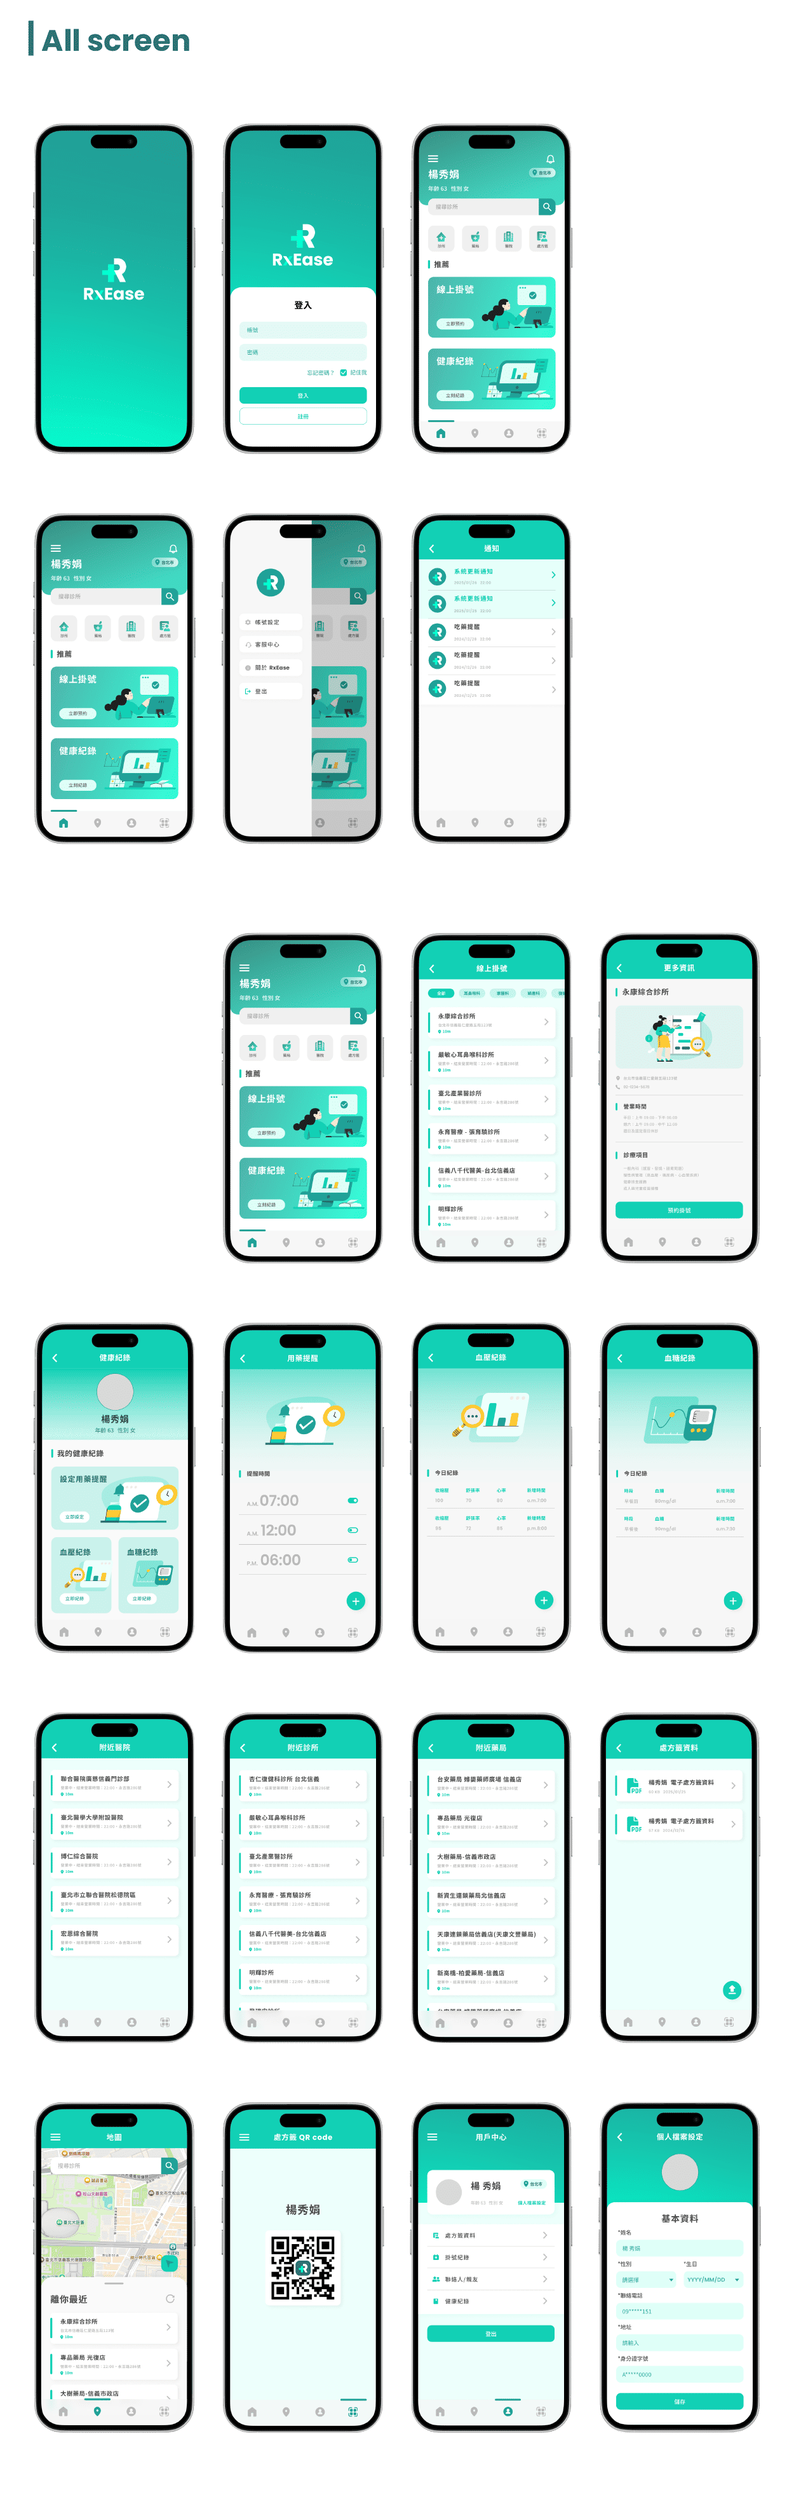
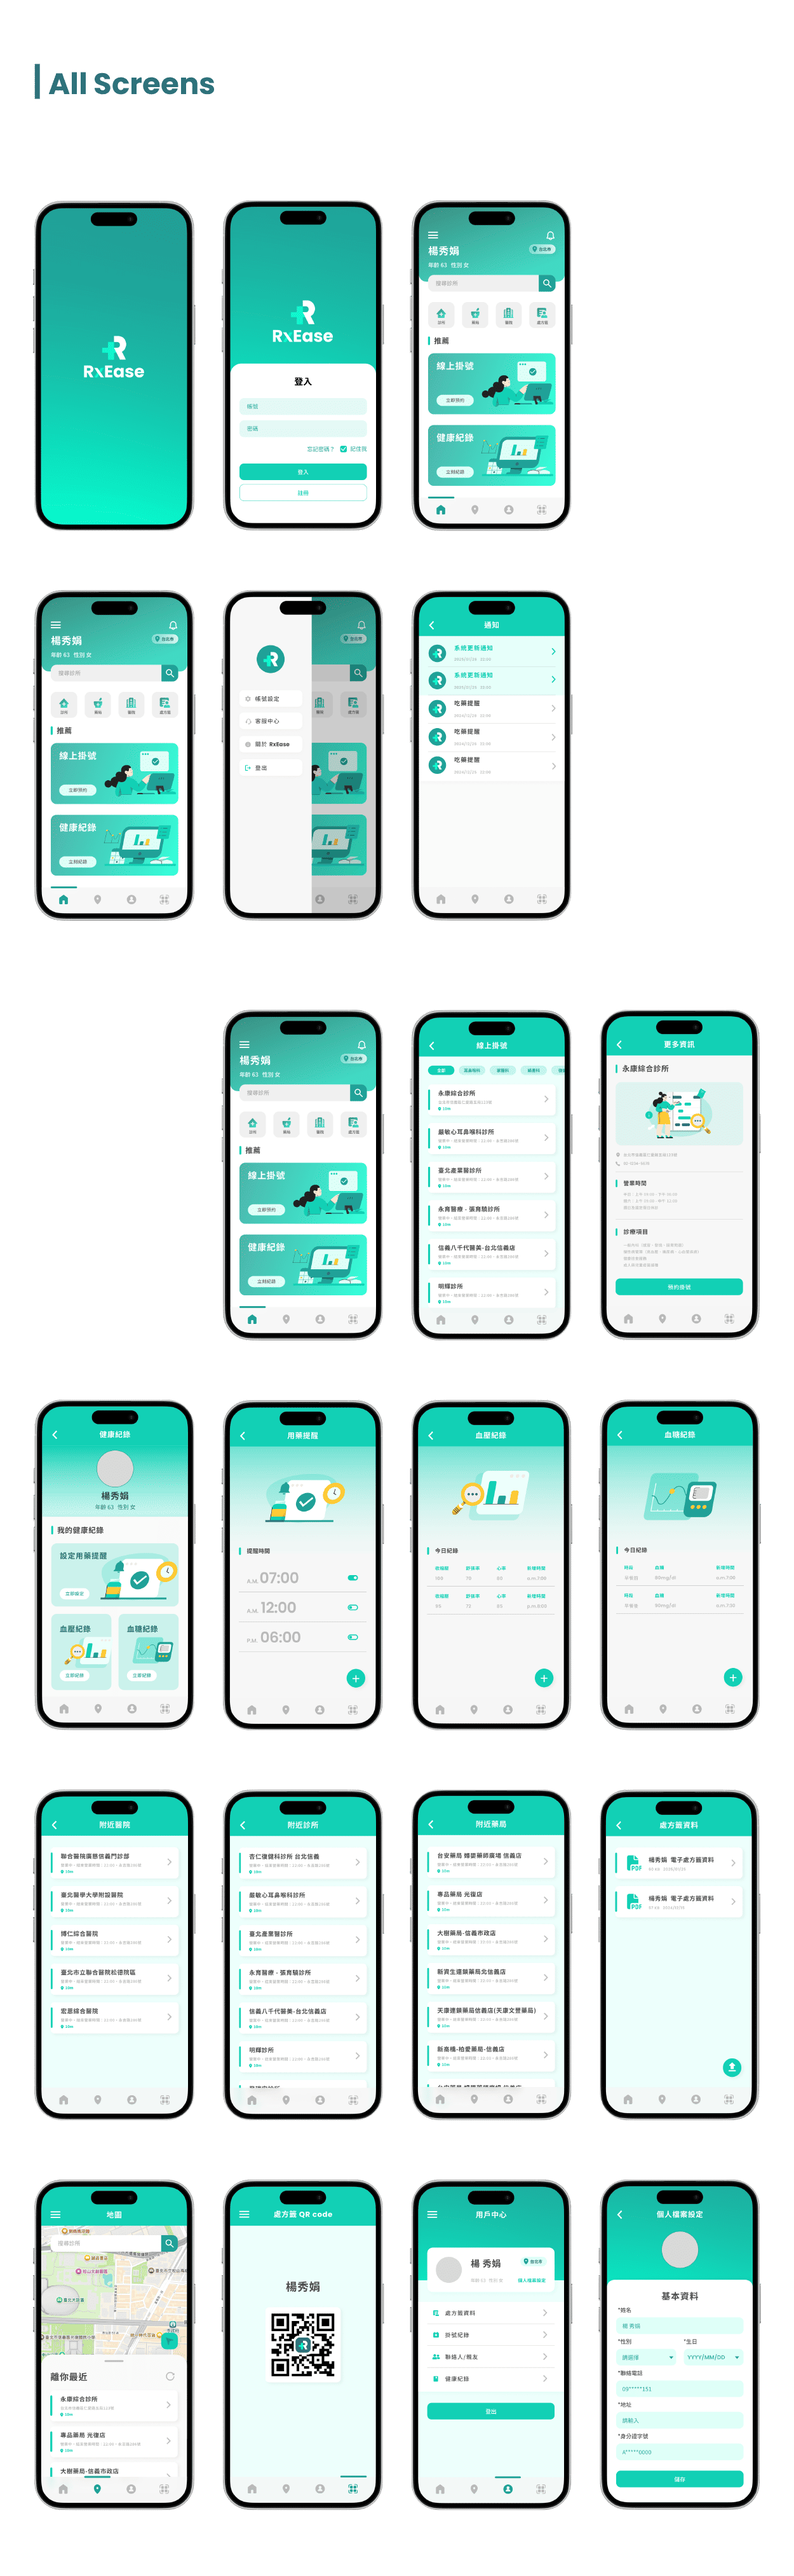
0050

diff --git a/design/rxease.html b/design/rxease.html
@@ -9,7 +9,7 @@
         body {
             margin: 0;
             padding: 0;
-            background: #e8fffb;
+            background: #fff;
             color: #000;
             font-family:'DM Sans', Arial, sans-serif;
         }
@@ -102,7 +102,7 @@
             .container {
             max-width: 1200px;
             margin: 0 auto;
-            padding: 0 15% 2%;
+            padding: 0 12% 2%;
             }
             .title {
             font-size: 3.2rem;
@@ -121,7 +121,7 @@
             .image-grid {
                 display: grid;
                 gap: 40px;
-                padding: 0 15% 5%;
+                padding: 0 12% 5%;
             }
             .figma-btn a {
             font-size: 2rem;          /* 字體大小 */
@@ -154,18 +154,15 @@
         </section>
     </div>
         <div class="image-grid">
-            <img src="醫療app [已復原]_工作區域 1.png" alt="123">
-            <img src="未命名-1 [已復原]-02.png" alt="123">
-            <img src="persona_工作區域 1.png" alt="123">
-            <img src="未命名-1 [已復原]_工作區域 1.png" alt="123">
+            <img src="醫療app [已復原]_工作區域 1 複本.png" alt="123">
             <img src="醫療app [已復原]-05.png" alt="123">
             <div style="display: flex; justify-content: center;">
-                <span><img src="1領藥.gif" style="max-width: 100%; height: auto; margin-top: 2%;  filter: brightness(108%);" alt="登入流程" ></span>
-                <span><img src="2掛號.gif" style="max-width: 100%; height: auto; margin-top: 2%;  filter: brightness(108%); " alt="設定" ></span>
+                <span><img src="1領藥.gif" style="max-width: 100%; height: auto; margin-top: 2%;  filter: brightness(105%);" alt="登入流程" ></span>
+                <span><img src="2掛號.gif" style="max-width: 100%; height: auto; margin-top: 2%;  filter: brightness(105%); " alt="設定" ></span>
              </div>
              <div style="display: flex; justify-content: center;">
-                <span><img src="3健康紀錄.gif" style="max-width: 100%; height: auto; margin-top: 2%;  filter: brightness(108%);" alt="第一排操作演示" ></span>
-                <span><img src="4.gif" style="max-width: 100%; height: auto; margin-top: 2%; filter: brightness(108%); " alt="下面三塊操作演示"></span>
+                <span><img src="3健康紀錄.gif" style="max-width: 100%; height: auto; margin-top: 2%;  filter: brightness(105%);" alt="第一排操作演示" ></span>
+                <span><img src="4.gif" style="max-width: 100%; height: auto; margin-top: 2%; filter: brightness(105%); " alt="下面三塊操作演示"></span>
              </div>
          <div class="figma-btn">
              <a href="https://www.figma.com/proto/jpw4UQ9bhSipTf7Bex2WDk/rxease?page-id=0%3A1&node-id=4-95&p=f&viewport=90%2C207%2C0.31&t=lHuJW9YztoAwReoo-1&scaling=scale-down&content-scaling=fixed&starting-point-node-id=1%3A2">🔗 View more in Figma</a>
